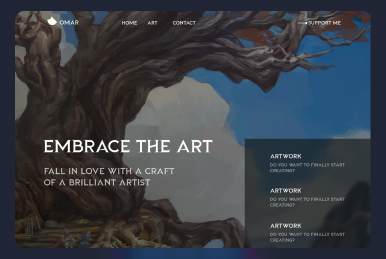
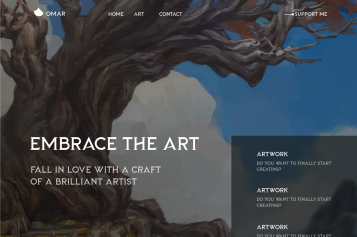
now working on nav bar

diff --git a/style.css b/style.css
@@ -111,7 +111,7 @@ article p{
     }
     .image-view{
         max-width: 38rem;
-        opacity: 90%;
+        opacity: 85%;
         border-radius: 1rem;
         box-shadow: 0px 8px 4px rgba(0, 0, 0, 0.25);
 
@@ -149,11 +149,16 @@ article p{
     }
     #lia-page{
         opacity: 100%;
-        
+        padding: 1rem;
+        margin-bottom: -1.8rem;
+        border-radius: 2rem;
+        box-shadow: 0px 8px 4px rgba(0, 0, 0, 0.25);
         
     }
     #lia-page-section{
-        
+        background: url(/Svgs/plsno/discord-backgroubd.jpg);
+        border-radius: 1rem;
+        box-shadow: 0px 6px 4px rgba(0, 0, 0, 0.25);
     }
     #main-ilustration-div{
         

diff --git a/index.html b/index.html
@@ -59,12 +59,11 @@
         <article>
             <section class='header-desc'>
                 <h1 class='header-text main-color'>Web Galery</h1>
-                <p class='header'>Designed and created a web gallery for an inspirational artist Lea1301</p>
+                <p class='header'>Designed and created a web gallery for an artist Lea1301</p>
             </section>
             <section id="lia-page-section"> <img src="/Svgs/plsno/DarkStyleKnightMain 1.jpg" class="image-view"
                     id='lia-page'>
             </section>
-        </article>
 
     </main>
 </body>
